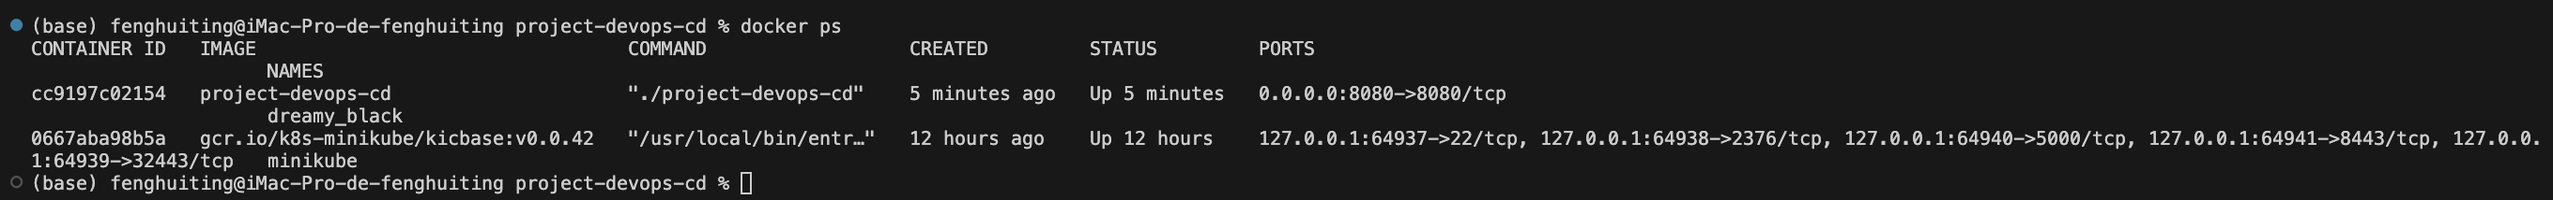
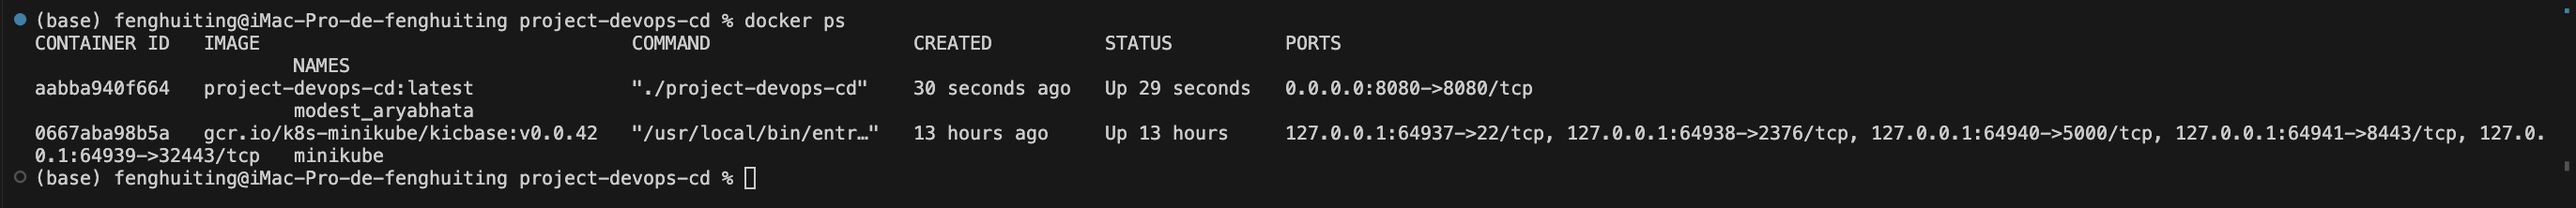
containize the docker image

Changed region(s): [[0.0, 0.0561, 1.0, 0.9813], [0.25, 0.3925, 0.5938, 0.5047], [0.3438, 0.1682, 0.5312, 0.2804]]

diff --git a/webapi/main.go b/webapi/main.go
@@ -19,9 +19,10 @@ func main() {
 
 func whoAmI(response http.ResponseWriter, r *http.Request) {
 	who := []whoami{
-		whoami{Name: "Efrei Paris",
-			Title: "DevOps and Continous Deployment",
-			State: "FR",
+		whoami{
+			Name: "project-devops-cd",
+			Title: "DevOps and Continous Deployment Team",
+			State: "Efrei Paris",
 		},
 	}
 
@@ -45,7 +46,7 @@ func aboutMe(response http.ResponseWriter, r *http.Request) {
 func request1() {
 	http.HandleFunc("/", homePage)
 	http.HandleFunc("/aboutme", aboutMe)
-	http.HandleFunc("/project-devops-cd", whoAmI)
+	http.HandleFunc("/whoami", whoAmI) // modify to customize the endpoint so as to display the team's information
 
 	log.Fatal(http.ListenAndServe(":8080", nil))
 }

diff --git a/README.md b/README.md
@@ -29,6 +29,8 @@
 - Prometheus and Grafana: Prometheus is an open-source monitoring system with a dimensional data model, and Grafana is an open-source, feature-rich metrics dashboard and graph editor Graphite, Elasticsearch, OpenTSDB, Prometheus, and InfluxDB.
 
 2. Customize and deploy the application on local docker engine
+- go to the /webapi/main.go file, do some modifications so that the /whoami endpoint displays our team's name
+![](/images/0.png)
 - go to the /webapi folder, write a 'Dockerfile' for this application
 - build the docker image: 
 ```
@@ -44,11 +46,13 @@ docker ps
 ```
 and we know that there are two running containers:
 ![](/images/1.png)
-- or go to check the application in a web browser (http://localhost:8080/) or
+- or go to check the application in a web browser or use command lines:
 ```
 curl http://localhost:8080/
 ```
-and the same message will be displayed on the terminal and on the web browser
+```
+curl http://localhost:8080/whoami/
+```
 ![](/images/2.png)
 
 
